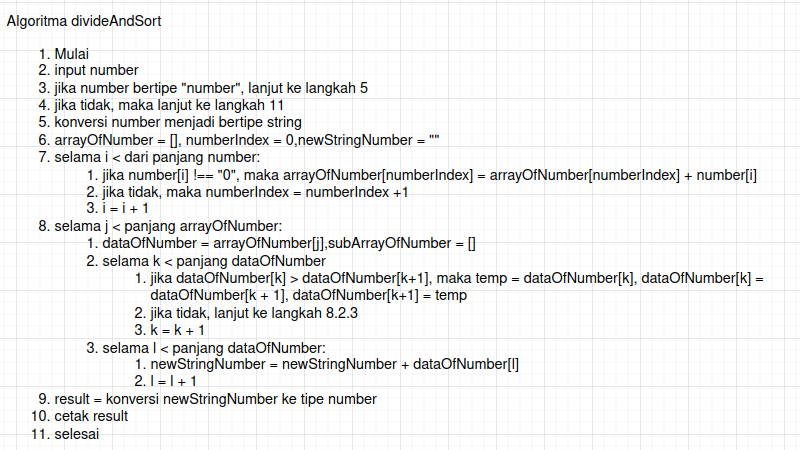
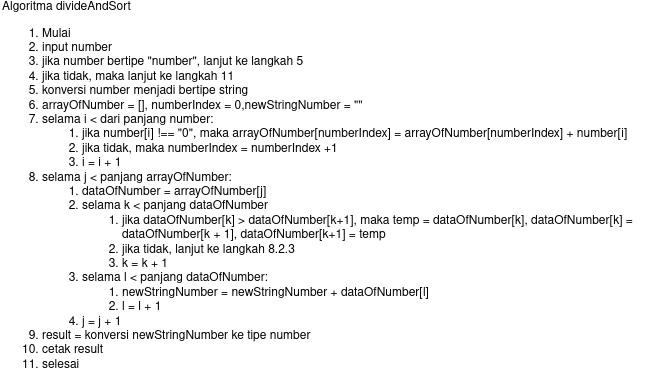
fix: fix algoritma and flowchar

Changed region(s): [[0.0, 0.0, 0.9831, 1.0]]

diff --git a/soal3/program.js b/soal3/program.js
@@ -1,7 +1,6 @@
 const divideAndSort = (number) => {
   if (typeof number !== "number") return "input harus berupa number";
-  number = number.toString();
-  const arrayOfNumber = number.split("0");
+  const arrayOfNumber = number.toString().split("0");
   const result = arrayOfNumber.map((num) =>
     num
       .split("")
@@ -13,3 +12,9 @@ const divideAndSort = (number) => {
 };
 
 console.log(divideAndSort(5956560159466056));
+
+// note:
+// line3, menampung hasil perubahan, tidak merubah parameter
+// nama variable di algoritma
+// penyesuain teks di dalam box flowchart
+//

diff --git a/soal1.js b/soal1.js
@@ -12,4 +12,7 @@ const palindom = (word) => {
     return "bukan palindom";
   }
 };
-console.log(palindom("malam"));
+console.log(palindom("alam"));
+
+// note
+// typo, palindom seharusnya palindrom
